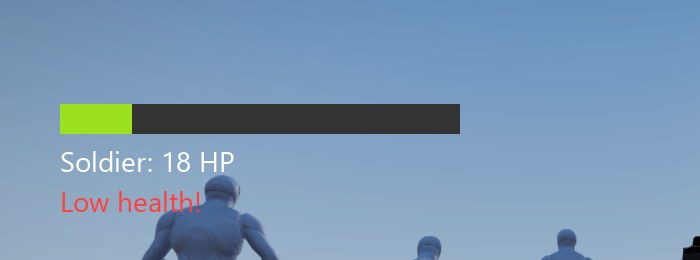
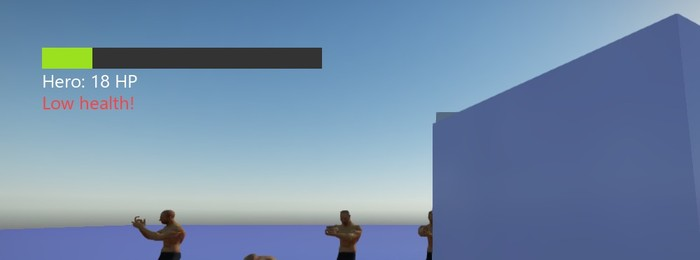
Add QHealth UI binding example
Add a health HUD document and level script to the QShots project, align the manual's example name, and refresh the lighting and UI-binding screenshots.

diff --git a/docs/MANUAL.md b/docs/MANUAL.md
@@ -2478,7 +2478,7 @@ button:focus, button:hover { background-color: #EEA70E; }
   ```
 
   ```lua
-  lsd.ui_data("name", "Soldier")
+  lsd.ui_data("name", "Hero")
   lsd.ui_data("health", self.health)   -- the bar, the label and the warning follow
   ```
 
